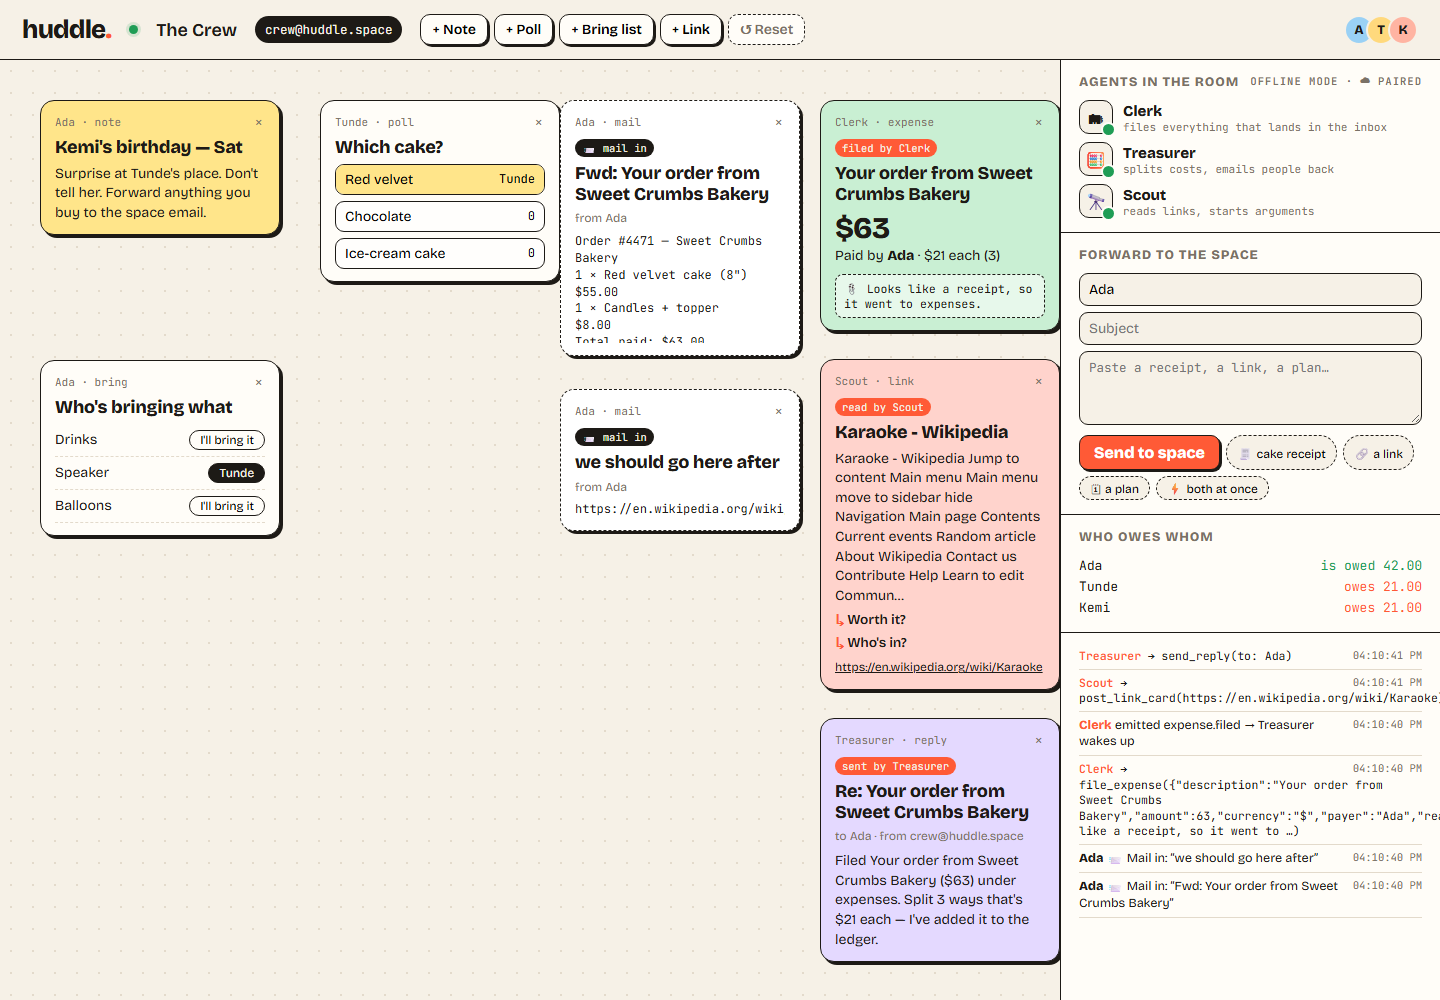
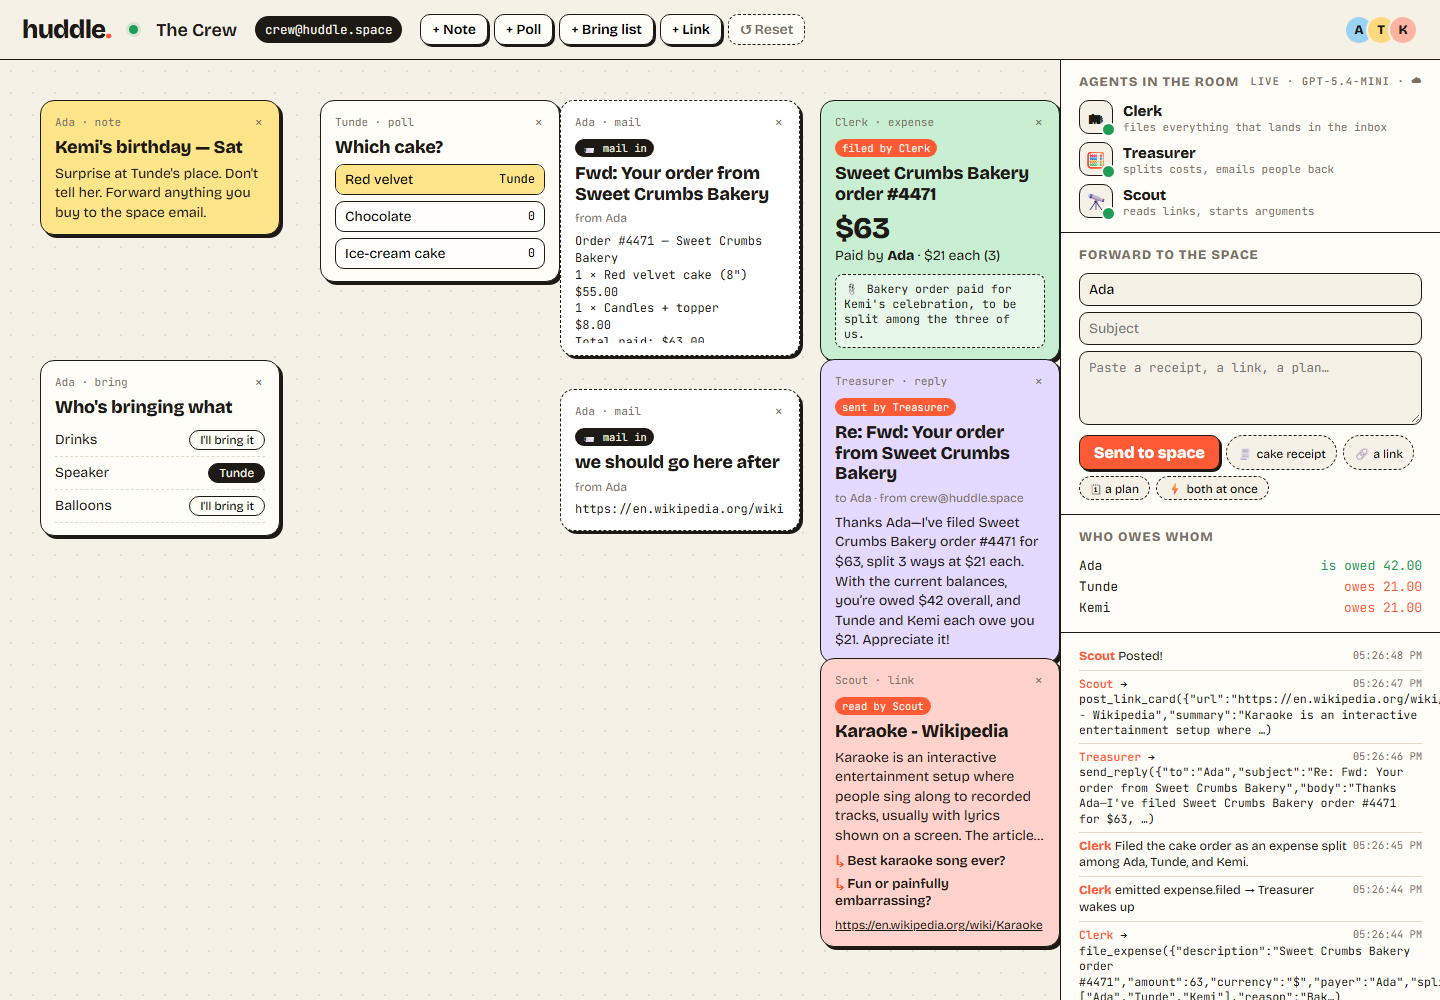
Run live agents and polish the submission

Changed region(s): [[0.5625, 0.279, 1.0, 1.0], [0.5625, 0.155, 0.7188, 0.217], [0.875, 0.062, 1.0, 0.093]]

diff --git a/server.ts b/server.ts
@@ -109,7 +109,7 @@ function setStatus(name: string, state: string, detail = "") {
 
 // place new agent-made cards in a free-ish spot on the right of the board
 // two lanes: mail that lands on the left, what the agents made of it on the right
-const LANE_HEIGHT: Record<Kind, number> = { note: 160, poll: 210, bring: 210, expense: 245, reply: 258, link: 345, mail: 275 }
+const LANE_HEIGHT: Record<Kind, number> = { note: 160, poll: 210, bring: 210, expense: 245, reply: 285, link: 345, mail: 275 }
 const LANE_GAP = 14
 let lanes = { mail: 40, out: 40 }
 for (const c of space.cards) {
@@ -263,6 +263,8 @@ const clerk = createAgent({
 			processor: {
 				apply({ event, participant }) {
 					const mail = event.payload as Mail
+					// A bare link belongs to the Scout. Don't double-file it as a Clerk note.
+					if (/^https?:\/\/\S+$/i.test(mail.text.trim())) return
 					mailContext.run(mail, () => {
 						if (!LIVE_AI) return fallbackClerk(mail)
 						think(participant as Agent, `Members: ${space.members.join(", ")}.\nFrom: ${mail.from}\nSubject: ${mail.subject}\n\n${mail.text}`)
@@ -280,7 +282,7 @@ const treasurer = createAgent({
 	instruction:
 		"You are the Treasurer of a friend group's shared space. When an expense is filed you get the expense and the running balances. " +
 		"Call send_reply exactly once with a short, warm email back to whoever sent the receipt: confirm what was filed, the per-person share, and who owes whom overall. " +
-		"Max 4 sentences. No bullet points. Use the currency given.",
+		"Max 4 sentences and under 260 characters. No bullet points. Use the currency given.",
 	tools: [
 		tool(
 			"send_reply",

diff --git a/public/index.html b/public/index.html
@@ -51,7 +51,9 @@
   .card.note.yellow { background: var(--yellow); } .card.note.blue { background: var(--blue); }
   .card.expense { background: var(--green); }
   .card.reply { background: var(--violet); }
+  .card.reply p { display: -webkit-box; -webkit-line-clamp: 7; -webkit-box-orient: vertical; overflow: hidden; }
   .card.link { background: var(--pink); }
+  .card.link p { display: -webkit-box; -webkit-line-clamp: 5; -webkit-box-orient: vertical; overflow: hidden; }
   .card.mail { background: #fff; border-style: dashed; }
   .tag { display: inline-block; font-family: var(--mono); font-size: 10.5px; padding: 2px 7px; border-radius: 999px; background: var(--ink); color: var(--paper); }
   .tag.agent { background: var(--accent); }
@@ -300,7 +302,8 @@ async function load() {
   board.innerHTML = ""; state.cards.clear(); $("#feed").innerHTML = ""
   $("#spaceName").textContent = s.name
   $("#email").textContent = s.email
-  $("#mode").textContent = (s.liveAI ? `live · ${s.model}` : "offline mode") + (s.cloud ? " · ☁ paired" : "")
+  $("#mode").textContent = (s.liveAI ? `live · ${s.model}` : "offline mode") + (s.cloud ? " · ☁" : "")
+  $("#mode").title = s.cloud ? "Streaming loops to Mozaik cloud" : "Mozaik cloud not paired"
   state.members = s.members; state.status = s.status; state.balances = s.balances; state.cloud = s.cloud
   for (const c of s.cards) { state.cards.set(c.id, c); renderCard(c) }
   s.activity.forEach(addActivity)
